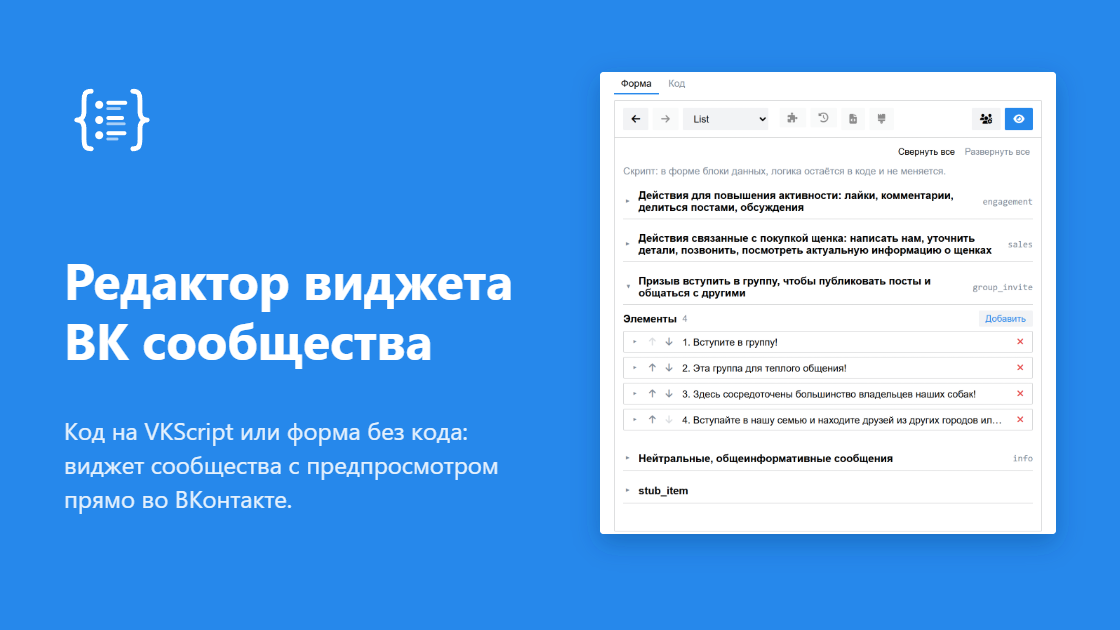
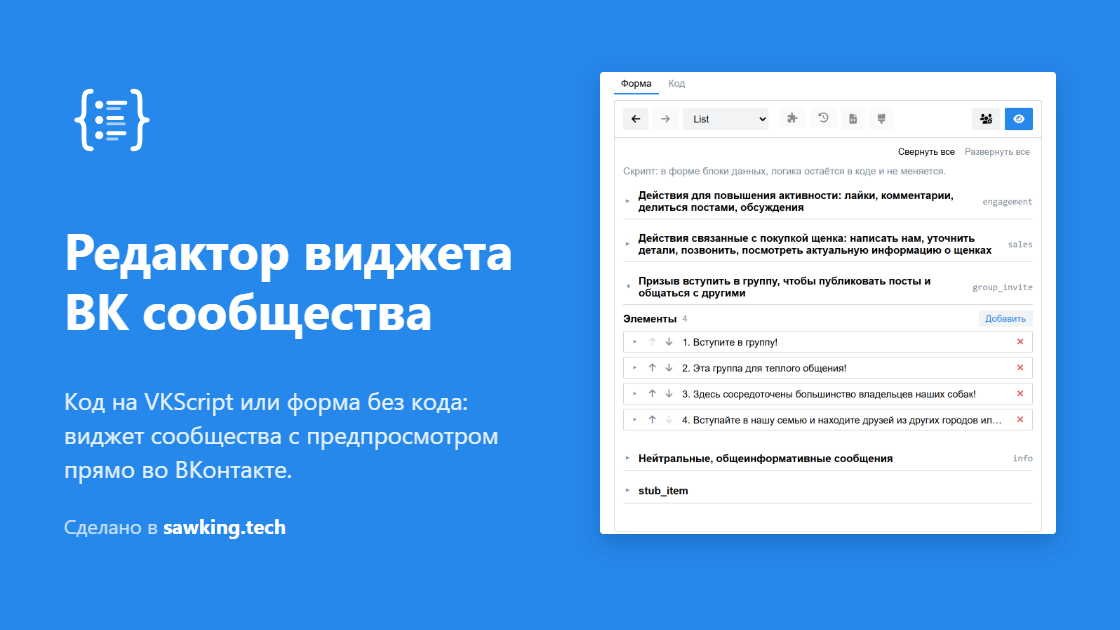
docs(brand): credit SawKing Tech instead of a person
- banner: «Сделано в sawking.tech» on its own line, title and subtitle moved up 30px
- proposed VK description names SawKing Tech and sawking.tech
- README and the app footer say «Сделано в SawKing Tech» with a link to sawking.tech

Changed region(s): [[0.0625, 0.3619, 0.4688, 0.573], [0.0625, 0.6032, 0.4688, 0.8746]]

diff --git a/index.htm b/index.htm
@@ -67,7 +67,7 @@
       <a href="https://vk.ru/cc" target="_blank" rel="noopener">VK CC</a>
     </nav>
     <p id="vkccHint"><a href="https://vk.ru/cc" target="_blank" rel="noopener">VK CC</a> удобен для статистики: в нём видно, сколько раз открыли ссылку. Сокращать можно ссылки и на ресурсы VK, и на внешние, но внешние в виджете могут не пройти: VK проверяет, куда ведёт редирект.</p>
-    <p class="credit">Автор: <a href="https://vk.com/super.volodya" target="_blank" rel="noopener">Володя Савкин</a></p>
+    <p class="credit">Сделано в <a href="https://sawking.tech" target="_blank" rel="noopener">SawKing Tech</a></p>
   </footer>
 </main>
 

diff --git a/README.md b/README.md
@@ -93,4 +93,4 @@ node tools/smoke.mjs
 
 ## Лицензия
 
-MIT, см. [LICENSE](LICENSE). Автор — [Володя Савкин](https://vk.com/super.volodya).
+MIT, см. [LICENSE](LICENSE). Сделано в [SawKing Tech](https://sawking.tech).
